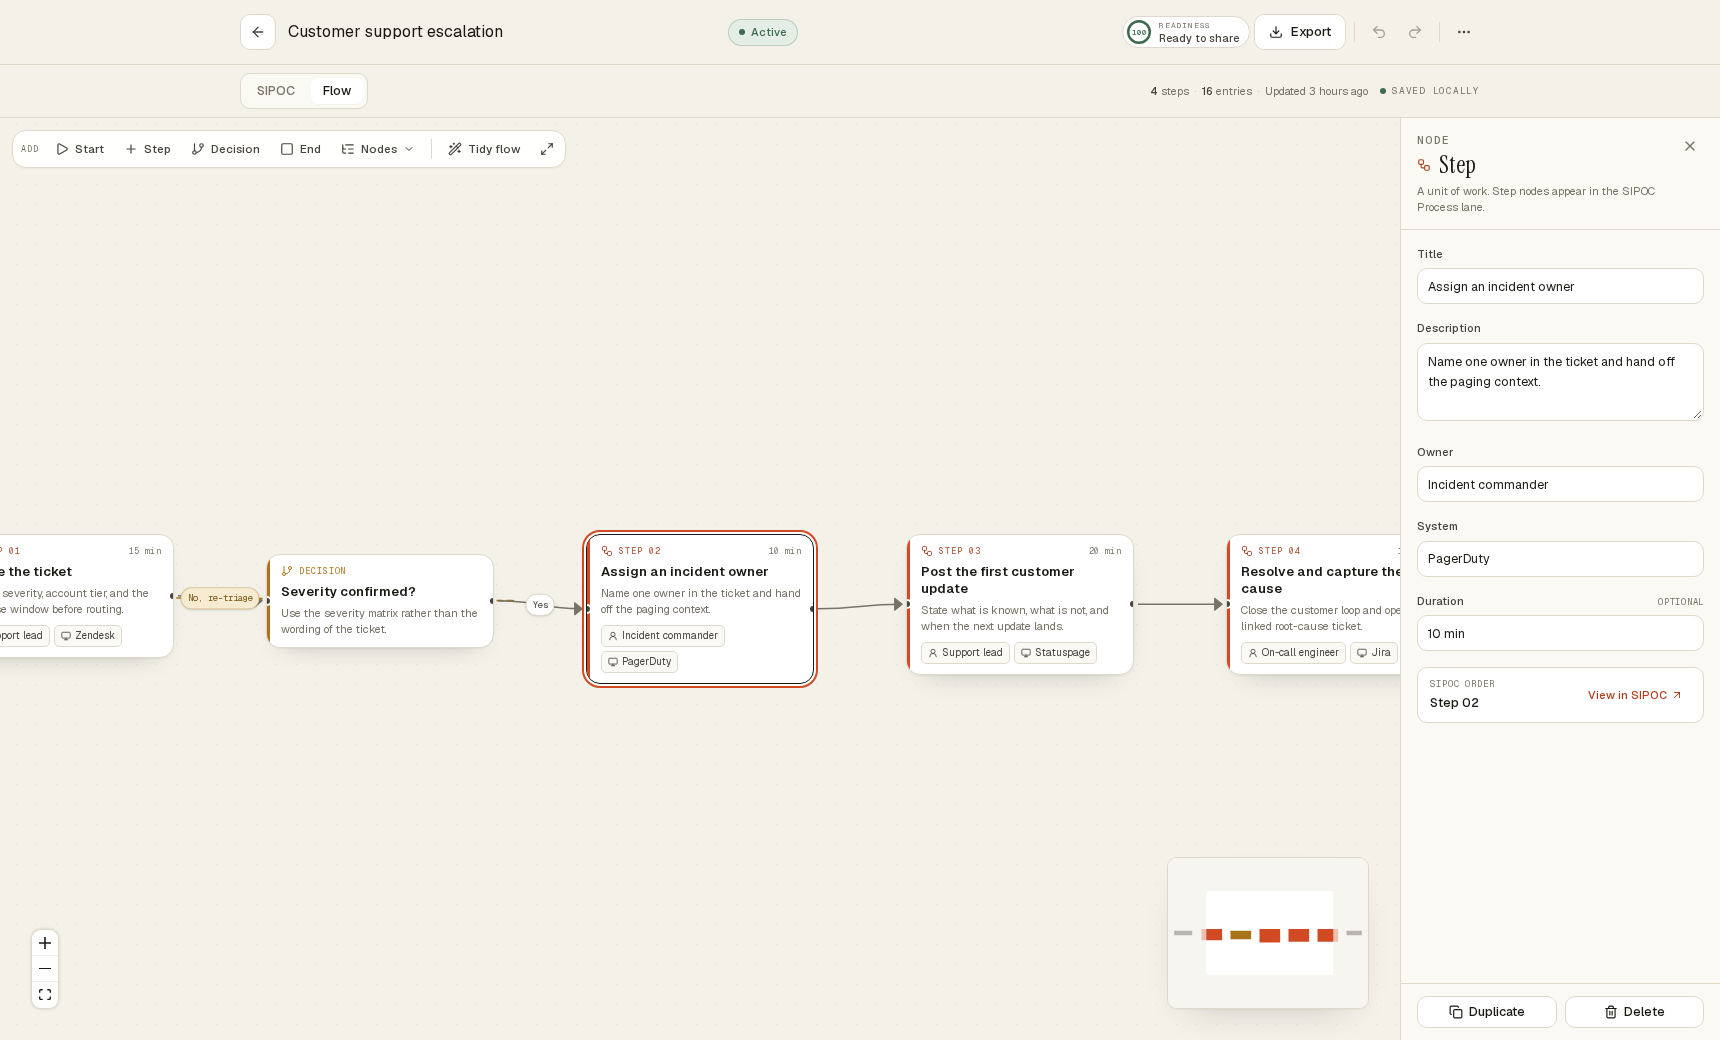
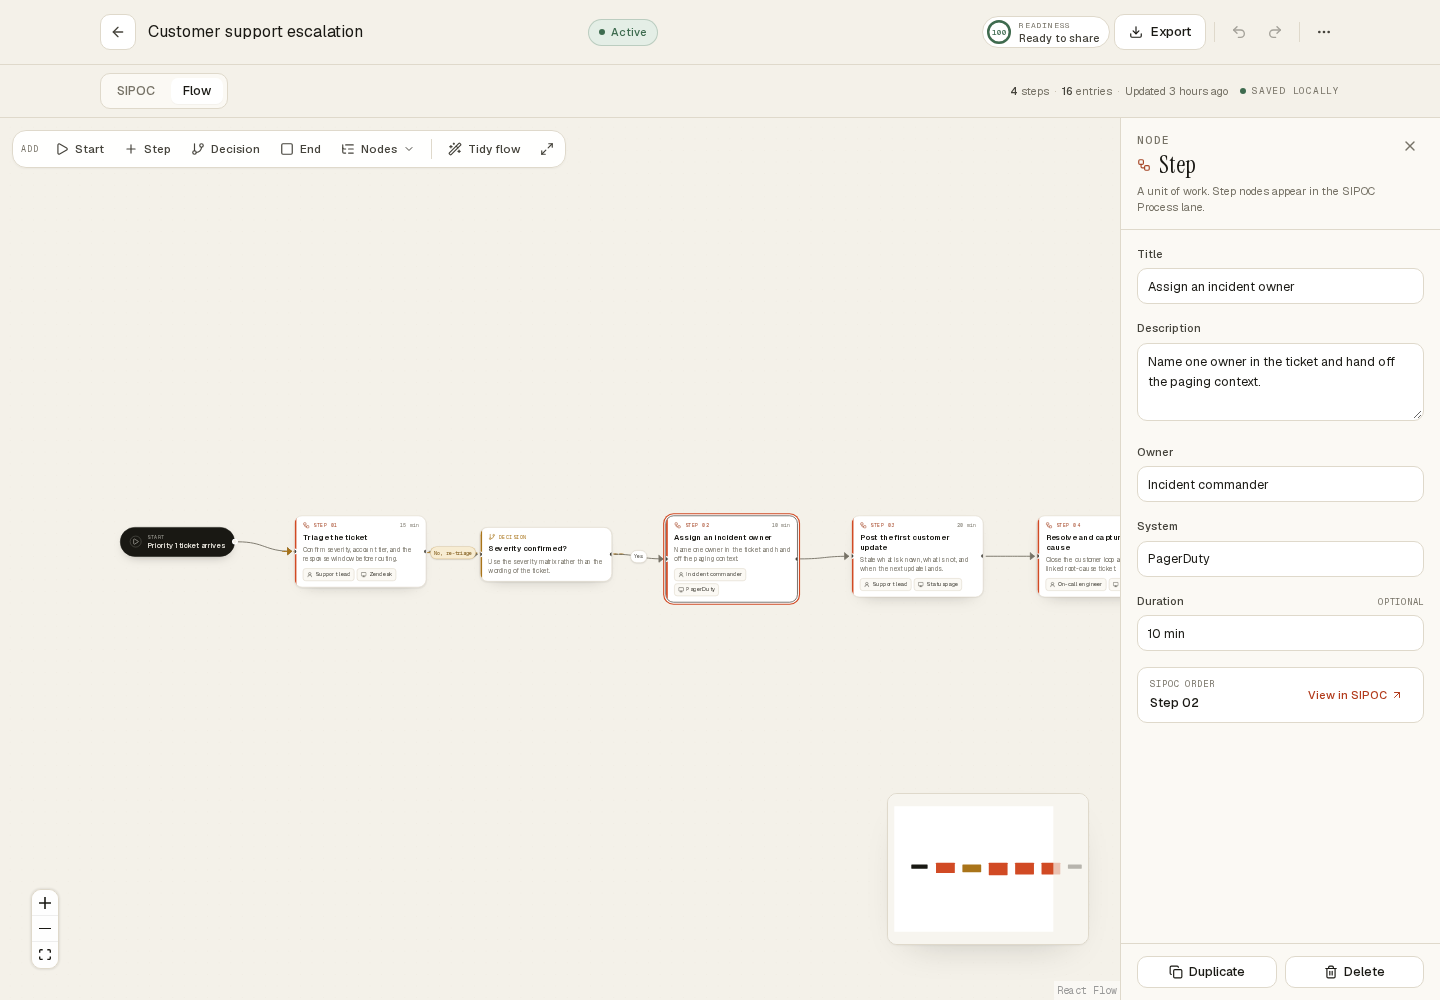
chore: guard static exports and browser journeys in CI

diff --git a/src/components/flow/flow-canvas.tsx b/src/components/flow/flow-canvas.tsx
@@ -380,7 +380,6 @@ function FlowCanvasInner({
         minZoom={0.2}
         maxZoom={2}
         deleteKeyCode={null}
-        proOptions={{ hideAttribution: true }}
         nodesFocusable
         edgesFocusable
         className="bg-paper"
@@ -399,7 +398,7 @@ function FlowCanvasInner({
           nodeColor={miniMapColor}
           nodeStrokeWidth={2}
           maskColor="var(--color-paper-mask)"
-          className="!bottom-4 !right-4 hidden sm:block"
+          className="!bottom-10 !right-4 hidden sm:block"
           ariaLabel="Flow minimap"
         />
       </ReactFlow>

diff --git a/src/lib/routes.test.ts b/src/lib/routes.test.ts
@@ -1,0 +1,14 @@
+import { describe, expect, it } from "vitest";
+import { mapHref } from "./routes";
+
+describe("mapHref", () => {
+  it("keeps the map id in the static editor route", () => {
+    expect(mapHref("map-support-escalation")).toBe("/maps?map=map-support-escalation");
+  });
+
+  it("adds the flow view and encoded node focus", () => {
+    expect(mapHref("map-1", { view: "flow", node: "node a&b" })).toBe(
+      "/maps?map=map-1&view=flow&node=node+a%26b",
+    );
+  });
+});

diff --git a/src/app/globals.css b/src/app/globals.css
@@ -145,6 +145,19 @@
     border-radius: 999px;
     border: 3px solid var(--color-paper);
   }
+
+  .react-flow__attribution {
+    background: transparent;
+    color: var(--color-muted);
+    font-size: 9px;
+    padding: 2px 4px;
+  }
+
+  .react-flow__attribution a {
+    color: inherit;
+    text-decoration: underline;
+    text-underline-offset: 2px;
+  }
 }
 
 @keyframes skeleton-sweep {

diff --git a/README.md b/README.md
@@ -2,7 +2,7 @@
 
 [**Open the live demo →**](https://gerrcass.github.io/process-mapper/)
 
-A local-first SIPOC and process-mapping workspace. Frame a process as a five-lane SIPOC sheet, map the flow behind it, and leave with something you can share. No account, backend, or environment variables.
+A local-first SIPOC and process-mapping workspace. Frame a process as a five-lane SIPOC sheet, map the flow behind it, and leave with something you can share. No account, backend, or runtime configuration.
 
 [![The Process Atlas workspace with two seeded process maps and a template gallery](docs/screenshots/01-workspace.png)](https://gerrcass.github.io/process-mapper/)
 
@@ -96,18 +96,19 @@ pnpm dev
 
 Open [http://localhost:3000](http://localhost:3000).
 
-| Command          | Does                                         |
-| ---------------- | -------------------------------------------- |
-| `pnpm dev`       | Development server                           |
-| `pnpm build`     | Production build                             |
-| `pnpm start`     | Serve the production build                   |
-| `pnpm lint`      | ESLint                                       |
-| `pnpm typecheck` | `tsc --noEmit`                               |
-| `pnpm test`      | Vitest in watch mode                         |
-| `pnpm test:run`  | Unit and component tests once                |
-| `pnpm test:e2e`  | Playwright journeys                          |
-| `pnpm verify`    | Lint, typecheck, tests, and production build |
-| `pnpm format`    | Prettier                                     |
+| Command             | Does                                |
+| ------------------- | ----------------------------------- |
+| `pnpm dev`          | Development server                  |
+| `pnpm build`        | Production build                    |
+| `pnpm start`        | Serve the production build          |
+| `pnpm lint`         | ESLint                              |
+| `pnpm typecheck`    | `tsc --noEmit`                      |
+| `pnpm test`         | Vitest in watch mode                |
+| `pnpm test:run`     | Unit and component tests once       |
+| `pnpm test:e2e`     | Playwright journeys                 |
+| `pnpm build:static` | Static export for GitHub Pages      |
+| `pnpm verify`       | Lint, typecheck, tests, both builds |
+| `pnpm format`       | Prettier                            |
 
 No `.env` file is needed.
 
@@ -124,6 +125,8 @@ Tests sit at the seams where the product can fail without a browser:
 pnpm exec playwright install chromium
 pnpm test:e2e
 ```
+
+CI runs lint, typecheck, unit/component tests, the server build, the static export, and the browser journeys. `pnpm verify` covers everything except the Playwright journeys.
 
 ## Architecture
 
@@ -181,13 +184,13 @@ pnpm build
 pnpm start
 ```
 
-The Pages build is the same app with static export enabled:
+The Pages build is the same app with static export enabled. Reproduce it locally with:
 
 ```bash
-GITHUB_PAGES=true PAGES_BASE_PATH=/process-mapper pnpm build
+pnpm build:static
 ```
 
-The workflow supplies `PAGES_BASE_PATH` and `NEXT_PUBLIC_SITE_URL` from the Pages environment, so metadata and Open Graph assets resolve against the deployed origin. No environment variables are needed for local development.
+The workflow supplies `PAGES_BASE_PATH` and `NEXT_PUBLIC_SITE_URL` from the Pages environment, so metadata and Open Graph assets resolve against the deployed origin. No runtime environment variables are needed for local development.
 
 ## Scope
 

diff --git a/docs/retros/2026-10-21-process-atlas.md b/docs/retros/2026-10-21-process-atlas.md
@@ -10,7 +10,7 @@ Session shape: setup → grill-with-docs → spec → tickets → writing-for-ag
 - **A real visual brief.** Palette, type roles, lane tints, and component shapes were decided before implementation. The resulting UI has a consistent point of view.
 - **Seams before code.** Domain, store, UI, and browser seams were named in the spec. The suite ended with 94 unit/component tests and 6 Playwright journeys.
 - **Review had teeth.** The two-axis review found stale deep-link focus, keyboard selection, modal focus trapping, delete-key scope, reduced motion, SIPOC-order validation, and deterministic ID issues. Those were fixed before the PR was marked ready.
-- **CI and local commands agree.** `pnpm verify` and the GitHub Actions job run the same checks, so a green local branch means a green PR.
+- **CI and local commands agree.** `pnpm verify` covers both the server build and the static export; CI repeats those checks and adds the browser journeys.
 
 ## Candidates, most severe first
 
@@ -20,6 +20,16 @@ Session shape: setup → grill-with-docs → spec → tickets → writing-for-ag
 4. **No pre-commit hook.** CI is a real guardrail, so this is optional. A local hook running lint and typecheck would shorten the feedback loop but adds tooling. Prefer `pnpm verify` before every push.
 5. **Keep the seeded demo deterministic.** The relative timestamps in screenshots drift by design. A future capture script should pin the clock if pixel-stable documentation matters.
 
+## Follow-up: GitHub Pages deployment
+
+The demo was later merged and published at <https://gerrcass.github.io/process-mapper/>. Static hosting exposed a category of failure the original CI missed:
+
+1. **Static export was not checked before merge** (applied). `pnpm build` tested the server build only; the Pages workflow tested the export only after a push to `main`. Added `pnpm build:static`, made `pnpm verify` run it, and added a CI step for it.
+2. **Browser journeys were not in CI** (applied). Added a separate Playwright job with Chromium, failure-report upload, and a 15-minute timeout.
+3. **Static hosting constraints were not in the steering files** (applied). `AGENTS.md` now points at the export rules, and `CODING_STANDARDS.md` names the route, prerender, and base-path constraints reviewers should enforce.
+4. **Screenshot capture is still manual** (open). The README image now comes from the live Pages site, but refreshing it still needs an ad-hoc Playwright call. A `pnpm screenshots` script remains the next tooling improvement.
+5. **Local production verification still needs one extra command** (open, low severity). `pnpm verify` covers the export, but a human preview of `/process-mapper/` on a plain static server is still manual.
+
 ## Recommendation
 
-Keep the workflow. Add the screenshot script next time the dashboard changes substantially, and treat the two standards added here as review checklist items. Do not add a pre-commit framework until the local feedback loop proves too slow.
+Keep the workflow. The deployment guardrails are now in place: both builds run locally and in CI, and the browser journeys gate PRs. Add the screenshot script when the visual surface changes again; do not add a pre-commit framework until the local feedback loop proves too slow.

diff --git a/AGENTS.md b/AGENTS.md
@@ -4,6 +4,7 @@ Local-first SIPOC and process-mapping demo. Next.js App Router, TypeScript, Tail
 
 ## Start here
 
+- **Live demo:** https://gerrcass.github.io/process-mapper/
 - **Spec:** GitHub issue #1. **Tickets:** #2–#10. Read with `gh issue view <n>`; the blocker graph is native.
 - **Domain language:** `GLOSSARY.md`. Use its terms in code, tests, copy, and commits.
 - **Decisions:** `docs/adr/`. Read the two ADRs before changing persistence or the two-view model.
@@ -14,10 +15,11 @@ Local-first SIPOC and process-mapping demo. Next.js App Router, TypeScript, Tail
 ## Commands
 
 - `pnpm dev` — local development.
-- `pnpm verify` — lint, typecheck, unit/component tests, and production build. This is the definition of a clean branch.
-- `pnpm test:e2e` — Playwright journeys; run when touching the editor, persistence, or exports.
+- `pnpm verify` — lint, typecheck, unit/component tests, server build, and static export. This is the definition of a clean branch.
+- `pnpm build:static` — reproduce the GitHub Pages static export locally.
+- `pnpm test:e2e` — Playwright journeys; run when touching the editor, persistence, exports, or routes.
 
-No environment variables, backend, or accounts. Map data lives in the browser; see ADR-0001.
+There are no runtime environment variables, backend, or accounts. Map data lives in the browser; see ADR-0001. Deployment-only Pages variables are documented in `README.md`.
 
 ## Rules that are easy to miss
 
@@ -27,6 +29,7 @@ No environment variables, backend, or accounts. Map data lives in the browser; s
 - The editor is client-side and hydration-safe: no `localStorage` reads during render, and a stable skeleton until rehydration finishes.
 - Use the existing UI primitives and design tokens. New dependencies need a reason in the ticket.
 - Interactive controls need an accessible name, visible focus, and a keyboard path.
+- **Static hosting:** GitHub Pages serves a static export and the editor is the `/maps?map=<id>` route. Read the static-export rules in `CODING_STANDARDS.md` before changing routes, metadata, or assets.
 
 ## Skill workflow
 

diff --git a/CODING_STANDARDS.md b/CODING_STANDARDS.md
@@ -21,6 +21,12 @@ These are judgement calls for review. Mechanical rules belong in lint, types, or
 - Keyboard behaviour must be deliberate. Destructive keys require selection or confirmation, and text fields must not lose normal editing shortcuts.
 - Global keyboard handlers ignore text fields, selects, contenteditable regions, and open dialogs. Scope a destructive shortcut to the surface that owns the selection where practical.
 
+### Static export
+
+- Keep the app exportable. The editor is the static `/maps?map=<id>` route. Dynamic routes, request-dependent route handlers, server actions, and redirects/rewrites break the GitHub Pages build.
+- Run `pnpm build:static` after changing routes, metadata, fonts, public assets, or anything that could affect prerendering. A green server build is not enough.
+- Pages deploys under `/process-mapper`. Use `mapHref` and Next's `basePath` support rather than hardcoding root-relative application URLs.
+
 ## Naming and structure
 
 - Name by behaviour and domain meaning, not by UI accident: `reorderSteps`, not `handleDrop2`; `readiness`, not `scoreThing`.
